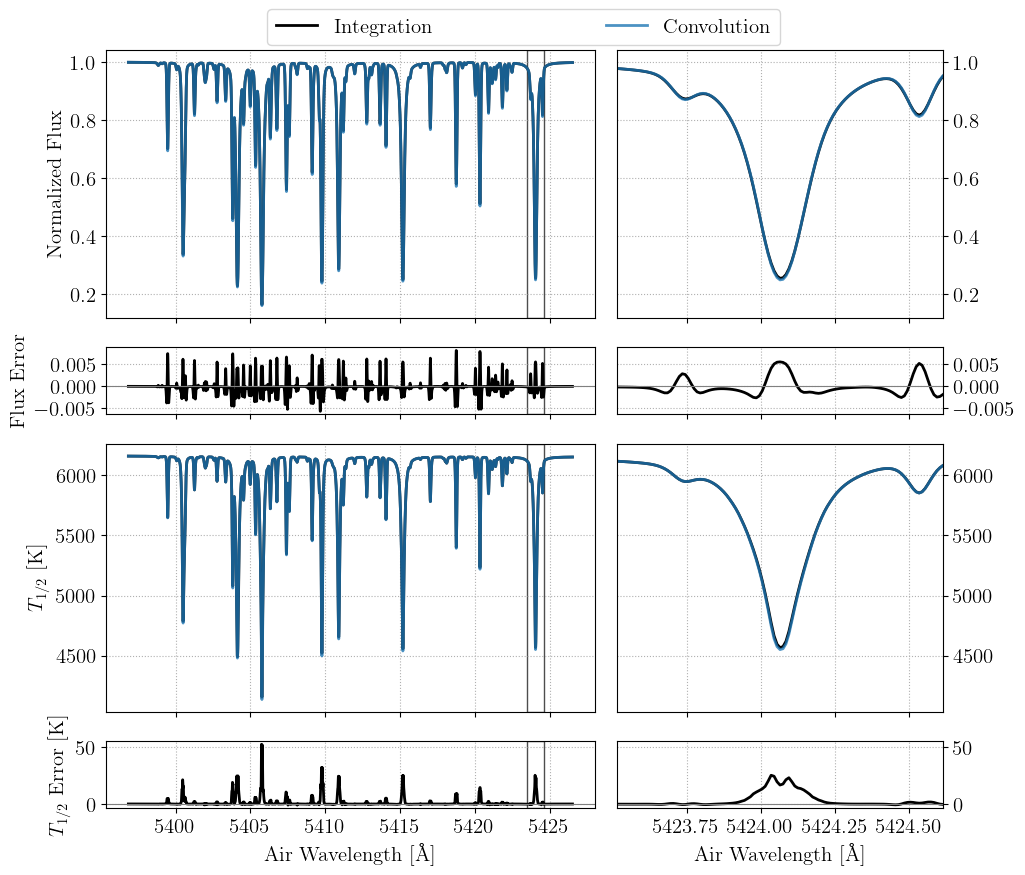
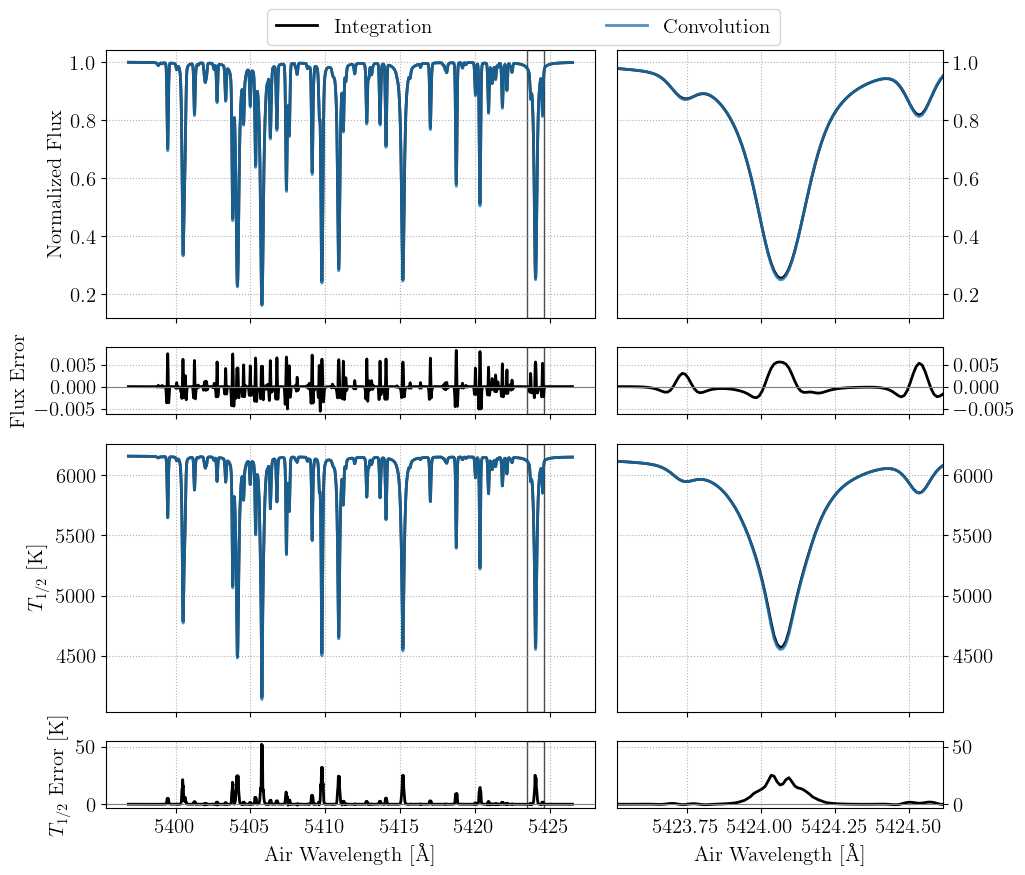
docs

diff --git a/docs/src/chunked.md b/docs/src/chunked.md
@@ -1,0 +1,130 @@
+# Large Linelists & Chunked Synthesis
+
+When synthesizing spectra from large linelists (thousands of lines spanning hundreds of Angstroms), the full wavelength range may not fit in GPU memory at once, or the single-call computation may be impractically slow. [`calc_formation_temp_chunked`](@ref) solves this by dividing the wavelength range into fixed-width chunks, computing each independently, and returning the raw per-chunk results for the caller to stitch together.
+
+## In-memory workflow
+
+For linelists that fit in RAM after chunking, the simplest approach returns a `Vector{FormTempResult}`:
+
+```julia
+using Korg
+using FormationTemps; FT = FormationTemps
+
+linelist = Korg.read_linelist(joinpath(FT.datdir, "Sun_VALD.lin"))
+star = StellarProps(Teff=5777.0, logg=4.44, Fe_H=0.0,
+                    vsini=2100.0, v_macro=3400.0, v_micro=850.0)
+
+# returns Vector{FormTempResult}, one per chunk
+chunks = calc_formation_temp_chunked(star, linelist;
+    chunk_width=50.0, wing_padding=30.0, overlap=5.0,
+    Δλ=0.01, convolve=false, Nϕ=32)
+```
+
+Each element of `chunks` is a full [`FormTempResult`](@ref) with `wavs`, `flux`, `form_temps`, `cont_func`, and `atmosphere` fields. Adjacent chunks overlap by `overlap` Angstroms, so the caller can blend or cut at the midpoint.
+
+## Streaming to disk
+
+For very large linelists where even the accumulated `Vector{FormTempResult}` would exceed available memory, pass a `callback` function. This streams each chunk to disk as it completes, and `calc_formation_temp_chunked` returns `nothing`.
+
+The following example is from `scripts/generate_temp_spectrum.jl` and writes each chunk to an HDF5 group:
+
+```@eval
+using Markdown
+let
+    script = joinpath(@__DIR__, "..", "..", "scripts", "generate_temp_spectrum.jl")
+    lines = readlines(script)
+    tag = "callback"
+    start_marker = "# [doc:$(tag)-start]"
+    end_marker   = "# [doc:$(tag)-end]"
+    i_start = findfirst(l -> strip(l) == start_marker, lines)
+    i_end   = findfirst(l -> strip(l) == end_marker, lines)
+    section = if isnothing(i_start) || isnothing(i_end)
+        "# section '$tag' not found"
+    else
+        s = lines[(i_start + 1):(i_end - 1)]
+        while !isempty(s) && isempty(strip(s[end]))
+            pop!(s)
+        end
+        join(s, "\n")
+    end
+    Markdown.parse("```julia\n" * section * "\n```")
+end
+```
+
+The `callback` signature is `(chunk_idx::Int, result::FormTempResult, ll_chunk) -> nothing`, where `ll_chunk` is the padded linelist view used for that chunk.
+
+## Chunking parameters
+
+```@eval
+using Markdown
+let
+    script = joinpath(@__DIR__, "..", "..", "scripts", "generate_temp_spectrum.jl")
+    lines = readlines(script)
+    tag = "chunked"
+    start_marker = "# [doc:$(tag)-start]"
+    end_marker   = "# [doc:$(tag)-end]"
+    i_start = findfirst(l -> strip(l) == start_marker, lines)
+    i_end   = findfirst(l -> strip(l) == end_marker, lines)
+    section = if isnothing(i_start) || isnothing(i_end)
+        "# section '$tag' not found"
+    else
+        s = lines[(i_start + 1):(i_end - 1)]
+        while !isempty(s) && isempty(strip(s[end]))
+            pop!(s)
+        end
+        join(s, "\n")
+    end
+    Markdown.parse("```julia\n" * section * "\n```")
+end
+```
+
+The key parameters are:
+
+| Parameter | Default | Description |
+|:--|:--|:--|
+| `chunk_width` | 50.0 | Width of each wavelength chunk in Angstroms. |
+| `wing_padding` | 30.0 | Extra range (Angstroms) beyond each chunk edge for linelist selection. Ensures that broad line wings (e.g., H-alpha, Ca II) contribute correctly at chunk boundaries. |
+| `overlap` | 5.0 | Overlap width (Angstroms) between adjacent chunks. Used during post-hoc stitching to blend or cut. |
+| `Δλ` | 0.001 | Wavelength step size in Angstroms. |
+| `buffer` | 2.0 | Extra wavelength range (Angstroms) beyond the linelist edges. |
+
+!!! tip "Choosing `wing_padding`"
+    Too small a `wing_padding` causes lines near chunk edges to be computed without their full wings, introducing residuals at stitch boundaries. 30 Angstroms is conservative; 15 Angstroms suffices for most lines but not for very broad resonant lines (e.g., H-alpha).
+
+## Stitching chunks
+
+`calc_formation_temp_chunked` returns raw chunks that need to be stitched together.
+
+The below example from `scripts/generate_temp_spectrum.jl` linearly crossfades flux, formation temperatures, and contribution functions across the overlap region.
+
+```@eval
+using Markdown
+let
+    script = joinpath(@__DIR__, "..", "..", "scripts", "generate_temp_spectrum.jl")
+    lines = readlines(script)
+    tag = "blend"
+    start_marker = "# [doc:$(tag)-start]"
+    end_marker   = "# [doc:$(tag)-end]"
+    i_start = findfirst(l -> strip(l) == start_marker, lines)
+    i_end   = findfirst(l -> strip(l) == end_marker, lines)
+    section = if isnothing(i_start) || isnothing(i_end)
+        "# section '$tag' not found"
+    else
+        s = lines[(i_start + 1):(i_end - 1)]
+        while !isempty(s) && isempty(strip(s[end]))
+            pop!(s)
+        end
+        join(s, "\n")
+    end
+    Markdown.parse("```julia\n" * section * "\n```")
+end
+```
+
+## Complete example
+
+The full production script combining all of the above is at `scripts/generate_temp_spectrum.jl`. It:
+
+1. Loads a large VALD linelist and converts to air wavelengths.
+2. Streams chunked results to HDF5.
+3. Reads the raw chunks back and stitches them.
+4. Trims the result to the linelist extent and writes the final spliced output.
